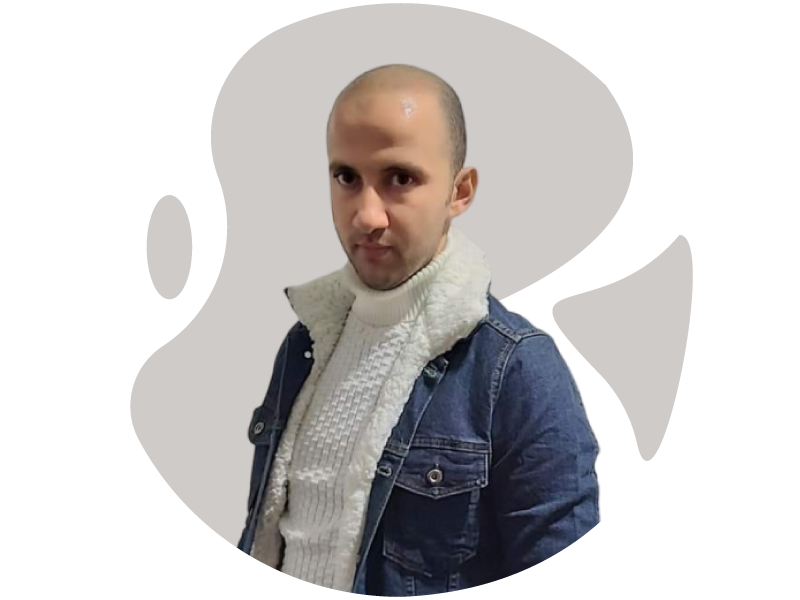
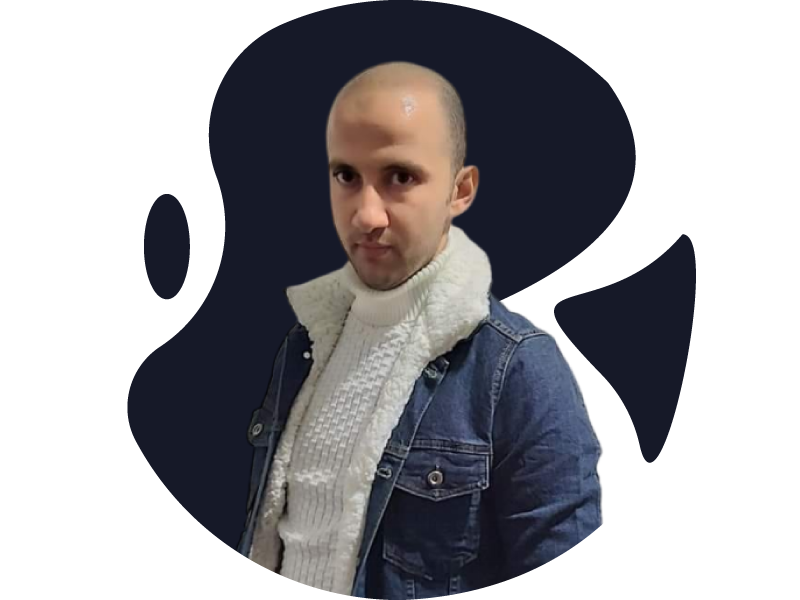
porfolio

diff --git a/style.css b/style.css
@@ -47,7 +47,7 @@ main{
     top: 210px;
     height: 70px;
     width: 320px;
-    background-color: rgb(207, 203, 201);
+    background-color: rgb(22, 25, 40);
 }
 
 /* left sidebar */
@@ -56,17 +56,17 @@ main{
     position: fixed;
     width: 25%;
     height: 100%;
-    background-color: rgb(207, 203, 201);
+    background-color: rgb(22, 25, 40);
 }
 .icon-style i{
     margin-top: 8%;
     animation: left 2s;
     font-size: 30px;
-    color: rgb(87, 99, 55);
+    color: rgb(217,216,211);
     padding: 3%;
 }
 
-.icon-style i:hover{ color: rgb(1, 63, 78);}
+.icon-style i:hover{ color: white; font-weight: bolder;}
 
 .logo-page{
     width: 70%;
@@ -75,7 +75,7 @@ main{
 
 .my-name{
     animation: left 2s;
-    color: rgb(1, 63, 78);
+    color: rgb(217,216,211);
 }
 
 .list{
@@ -85,14 +85,14 @@ main{
     margin: 0 auto;
 }
 
-.list a:hover{ color: rgb(1, 63, 78);font-weight: bolder;}
+.list a:hover{ color: white;font-weight: bolder;}
 
 .list-pc{
     display: block;
     padding: 4%;
     font-size: larger;
     text-decoration: none;
-    color: rgb(87, 99, 55);
+    color: rgb(217,216,211);
 }
 
 .list-mobile{
@@ -103,7 +103,8 @@ main{
     margin: 7% auto;
     text-align: center;
     width: 80%;
-    border-top: 1px solid rgba(87, 99, 55,0.3);
+    color: rgb(217,216,211);
+    border-top: 1px solid rgba(217,216,211);
 }
 
 /* right page & contant ---- */
@@ -112,7 +113,7 @@ main{
     right: 0;
     width: 75%;
     padding-top: 14%;
-    background-color: rgb(0, 113, 143);
+    background-color: rgb(217,216,211);
 }
 
 .home{
@@ -135,20 +136,19 @@ main{
 }
 
 .home-page p{
-    color: rgb(207, 203, 201);
+    color: rgb(22, 25, 40);
     font-weight: 400;
 }
 
 .home-page h1{
-    color: rgb(87, 99, 55);
+    color: rgb(22, 25, 40);
     margin-bottom: 5%;
     font-size: 320%;
-    text-shadow: 2px 2px rgba(207, 203, 201, 0.4);
 }
 
 .content{
     margin-top: 20%;
-    color: rgb(207, 203, 201);
+    color: rgb(22, 25, 40);
 }
 
 .content  h2{
@@ -156,7 +156,7 @@ main{
     display: inline-block;
     margin-bottom: 3%;
     margin-left: 1%;
-    color: rgb(87, 99, 55);
+    color: rgb(22, 25, 40);
 
 }
 
@@ -257,9 +257,18 @@ ul li{
         display: none;
         visibility: hidden;
     }
+
+    .content{
+        margin-top: 35%;
+    }
     
     .list-mobile{
+        color: rgb(217,216,211);
         visibility: visible;
+    }
+
+    .list-mobile button{
+        color: rgb(217,216,211);
     }
 
     .footer{
@@ -279,7 +288,7 @@ ul li{
 
     .home-page h1{
         font-size: 280%;
-        text-shadow: 1px 1px rgba(207, 203, 201, 0.4);
+        text-shadow: 1px 1px rgba(22, 25, 40, 0.4);
     }
 
     .skills{
@@ -288,7 +297,7 @@ ul li{
 
     .footer-mobile{
         text-align: center;
-        color: rgb(207, 203, 201);
+        color: rgb(22, 25, 40);
         visibility: visible;
     }
     
@@ -296,7 +305,7 @@ ul li{
 
 @media only screen and (max-width: 500px){
     .content{
-        margin-top: 40%;
+        margin-top: 45%;
     }
 
     .page-right{

diff --git a/index.html b/index.html
@@ -14,7 +14,7 @@
         <script src="https://cdn.jsdelivr.net/npm/bootstrap@5.2.1/dist/js/bootstrap.bundle.min.js"></script>
 
         <!-- page icon and title -->
-        <link rel="shortcut icon" href="./logo.png" type="image/x-icon">
+        <link rel="shortcut icon" href="./logo0.png" type="image/x-icon">
         <title>PORTFOLIO</title>
     </head>
 <body>
@@ -28,7 +28,7 @@
                     <a href="https://twitter.com/MhamdNaserEdden" target="_blank"><i class="fa fa-twitter-square"></i></a>
                 </div>
                 <div>
-                    <img class="img-fluid logo-page" src="./image/logo1.png" alt="my logo">
+                    <img class="img-fluid logo-page" src="./image/logo.png" alt="my logo">
                 </div>
                 <div class="container">
                     <div class="container list text-center">
